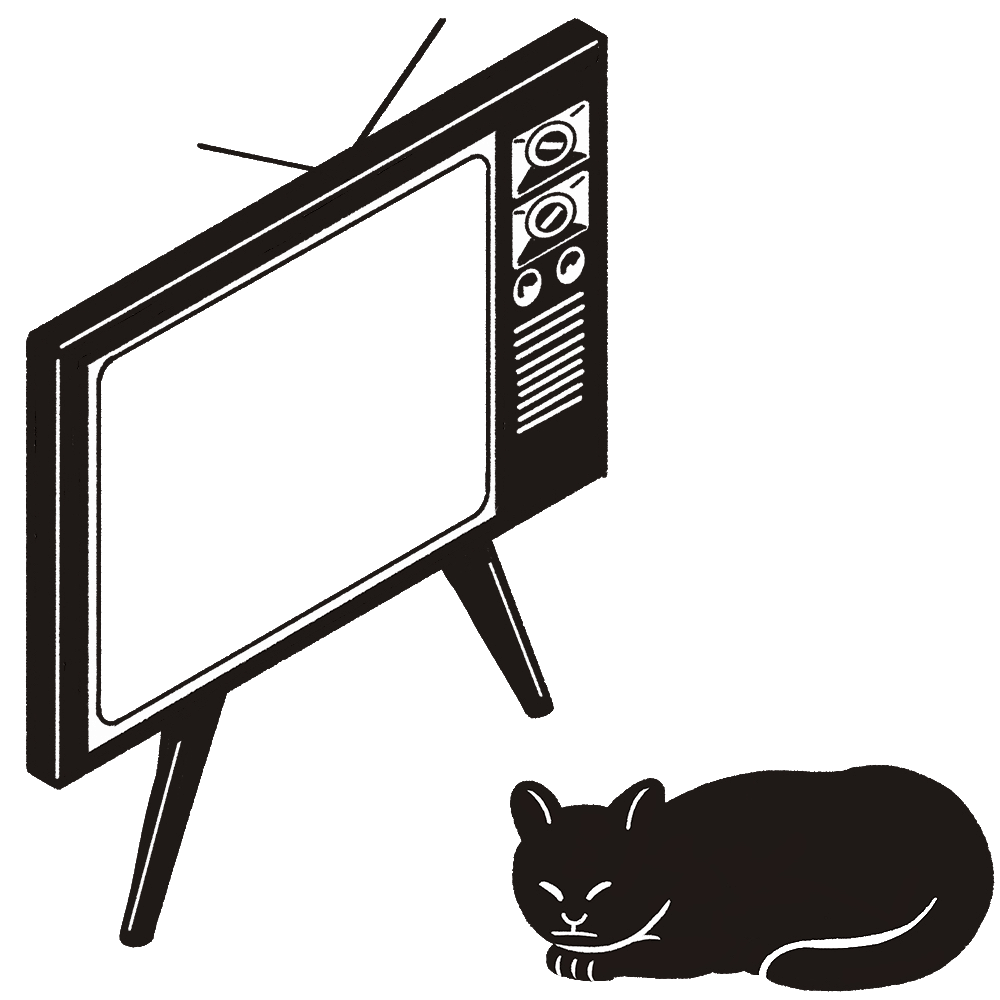
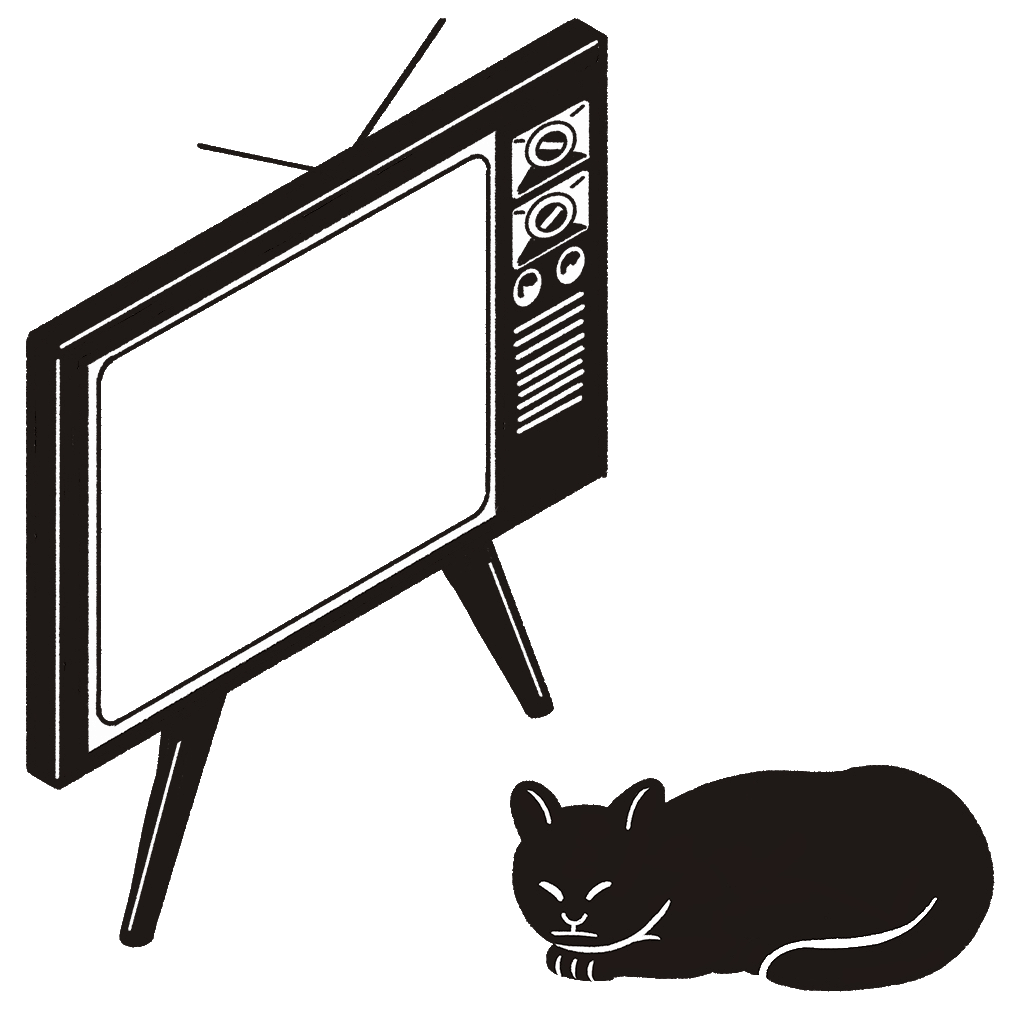
Resizes textures at power of 2

diff --git a/pages/2018/nov.js b/pages/2018/nov.js
@@ -31,11 +31,11 @@ export default {
       illustration: Random.sample([
         {
           url: neko,
-          position: new Vector3(0.55, 1, 1.14),
-          geometry: new PlaneGeometry(1.10, 0.88),
+          position: new Vector3(0.55, 1.05, 1.14),
+          geometry: new PlaneGeometry(1.10, 0.90),
         },{
           url: monster,
-          position: new Vector3(0.70, 1.01, 1.05),
+          position: new Vector3(0.70, 1.05, 1.08),
           geometry: new PlaneGeometry(1.10, 0.90),
         }
       ]),
